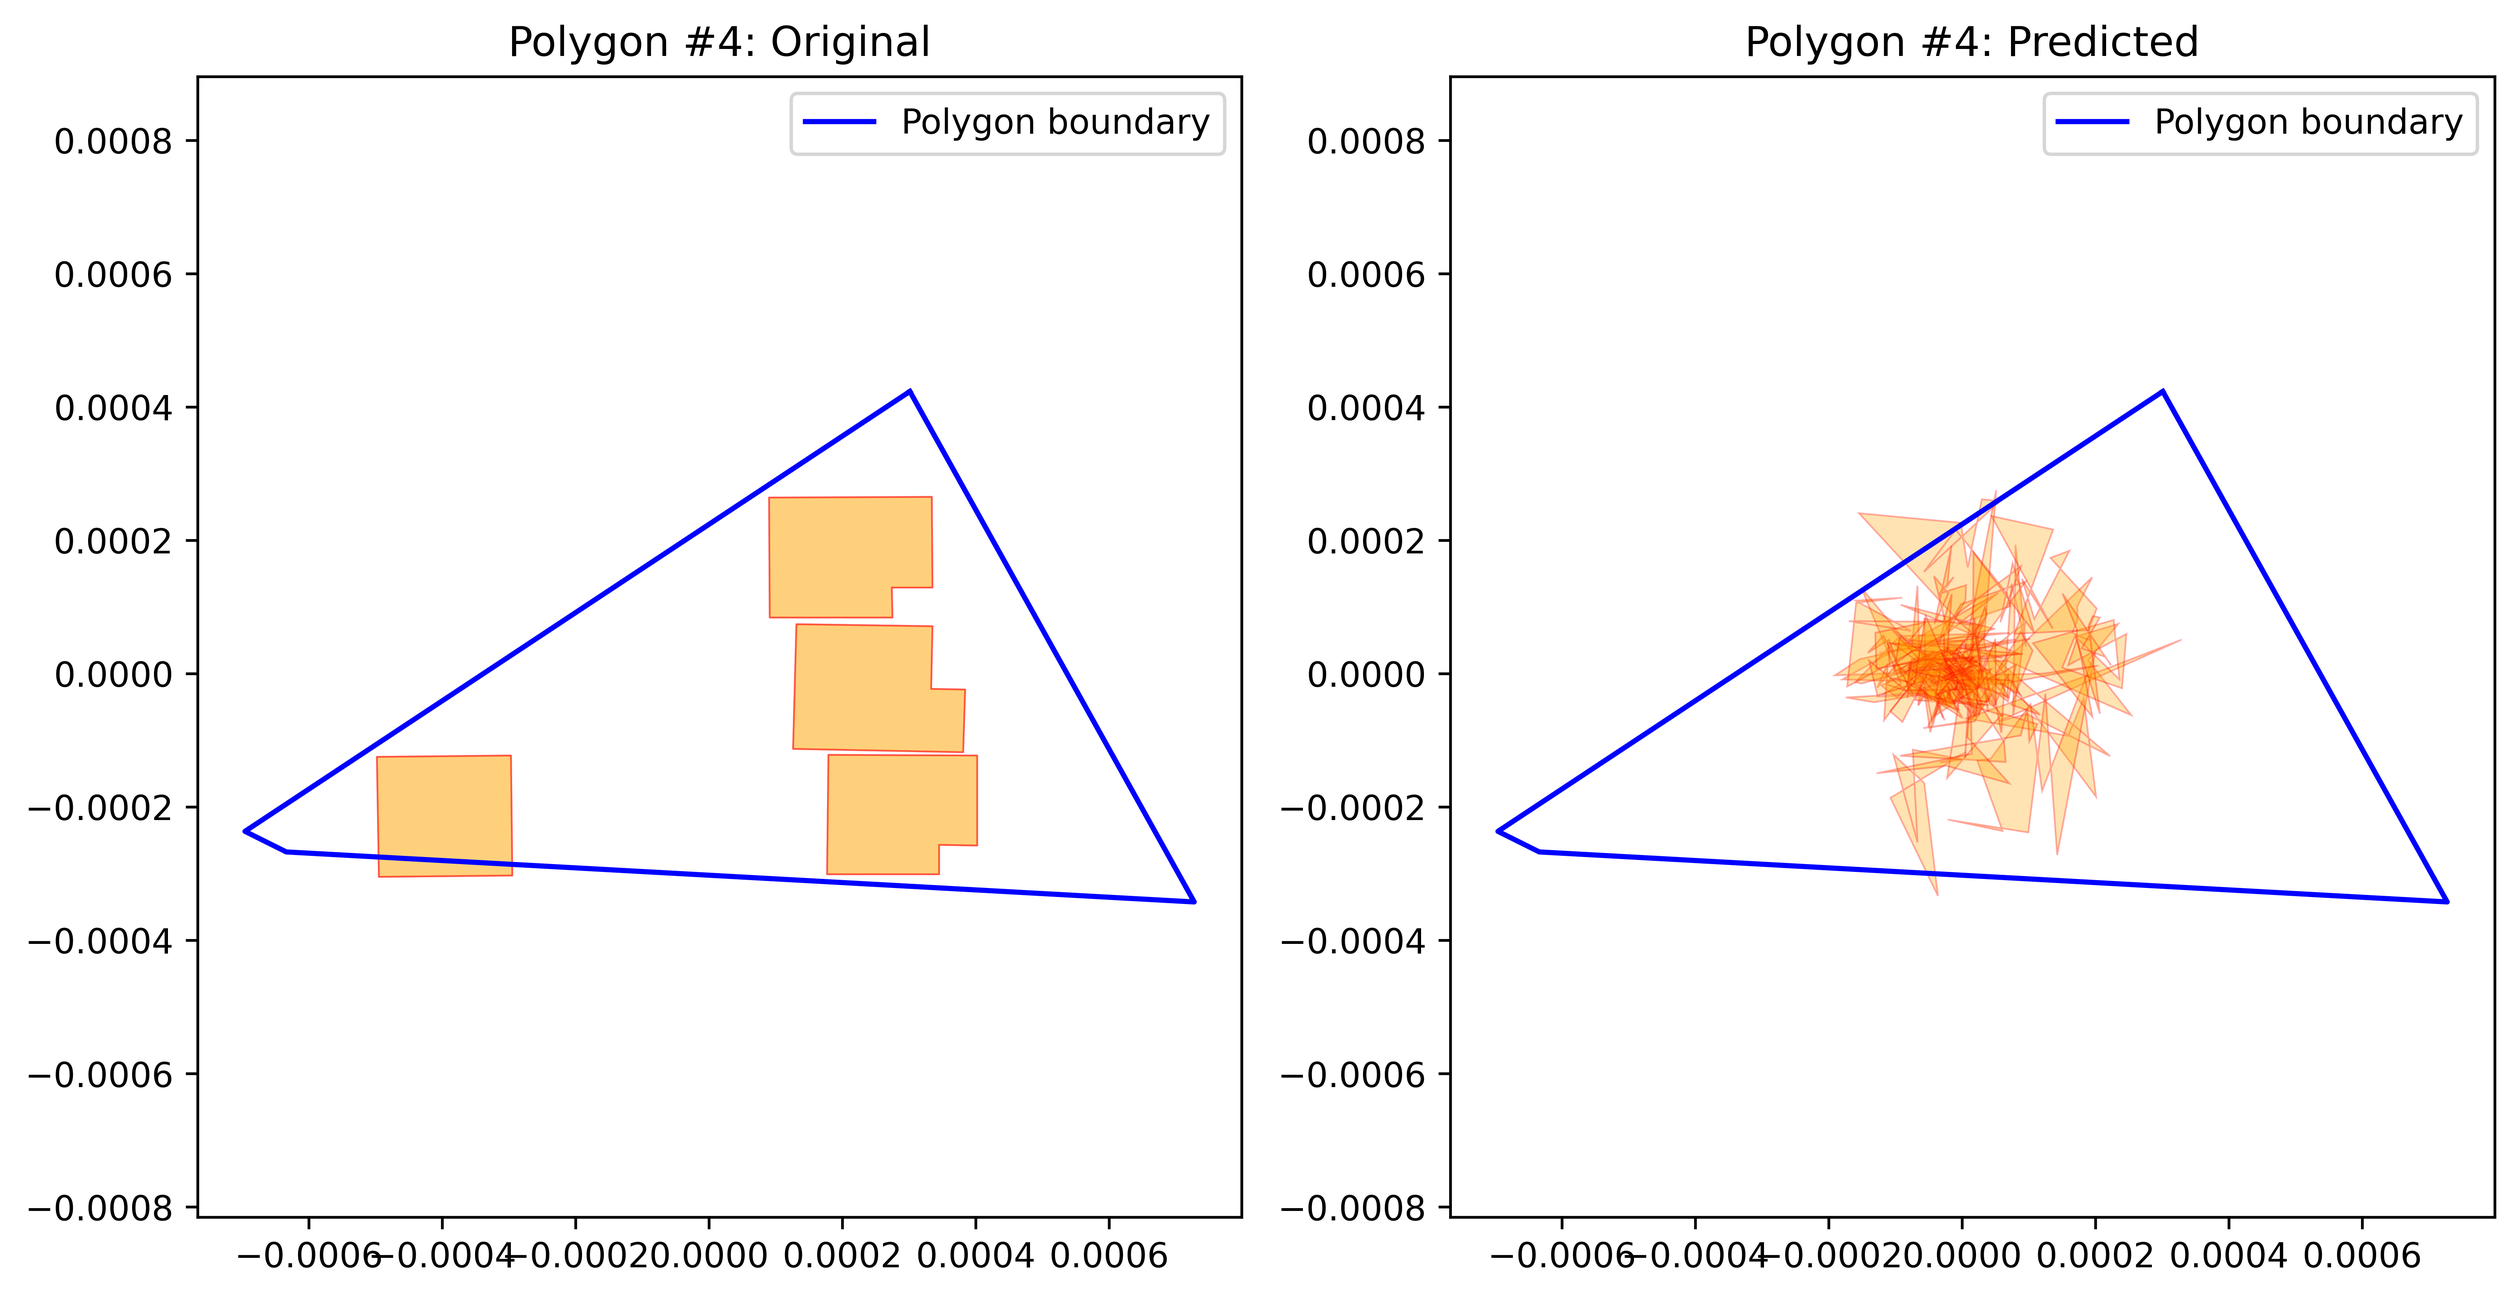
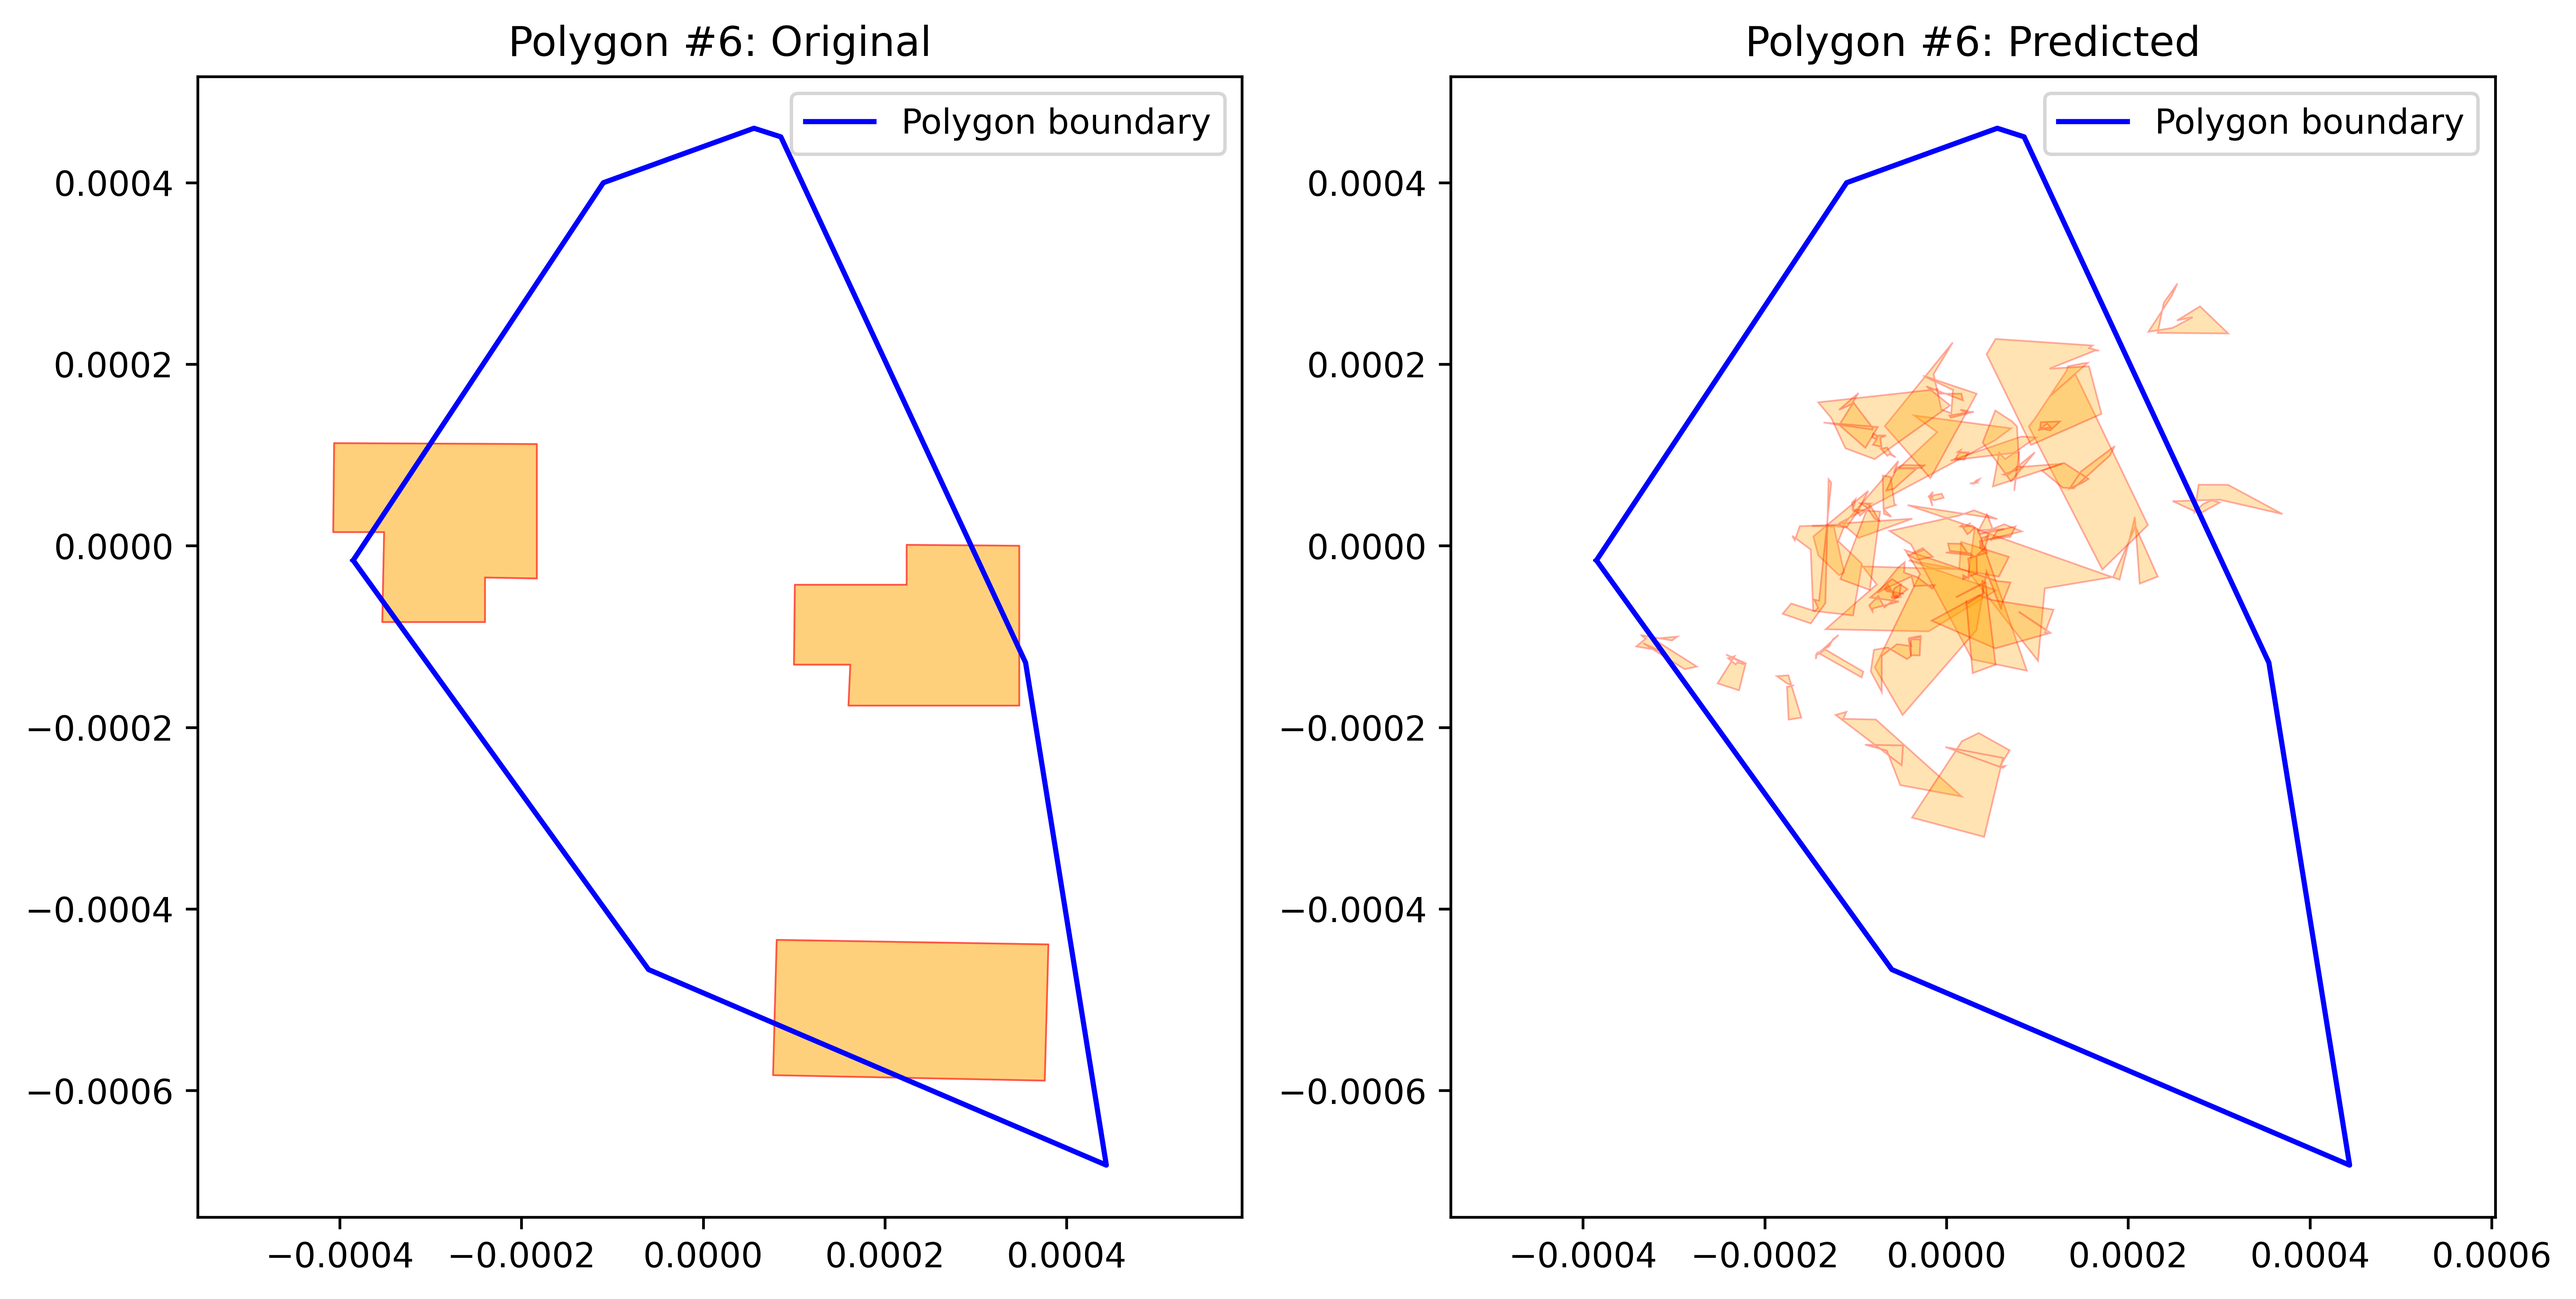
+ epochs changed 1 -> 10 ('0' was mistakenly forgotten so results were bad) + new result plots + change in input data folders to include 'deep_learning_algorithm' part

diff --git a/deep_learning_algorithm/train_polygon_to_buildings_CHUNKED.py b/deep_learning_algorithm/train_polygon_to_buildings_CHUNKED.py
@@ -18,7 +18,7 @@ from shapely.errors import GEOSException
 #########################################
 
 # Folders & paths
-DATA_FOLDER = "AI_learning_data/idk_super_short"  # or "AI_learning_data/idk_short", etc.
+DATA_FOLDER = "deep_learning_algorithm/AI_learning_data/idk_super_short"  # or "AI_learning_data/idk_short", etc.
 MODEL_SAVE_PATH = "building_model_CHUNKED.pth"
 
 # Model architecture
@@ -37,7 +37,7 @@ BATCH_SIZE = 4
 LEARNING_RATE = 1e-3
 
 # We'll do EPOCHS passes over the entire file list
-EPOCHS = 1   # increase if you want more passes
+EPOCHS = 10   # increase if you want more passes
 FILES_PER_CHUNK = 10  # how many .json files to load at a time
 SHUFFLE_FILES = True  # if True, shuffle the file list each epoch
 

diff --git a/deep_learning_algorithm/train_polygon_to_buildings_RAM.py b/deep_learning_algorithm/train_polygon_to_buildings_RAM.py
@@ -16,7 +16,7 @@ from shapely.ops import unary_union  # optional if needed
 # Configuration
 ############################################
 
-DATA_FOLDER = "AI_learning_data/idk_super_short"
+DATA_FOLDER = "deep_learning_algorithm/AI_learning_data/idk_super_short"
 MODEL_SAVE_PATH = "building_model_RAM.pth"
 
 # We do NOT normalize coords; using them as is.
